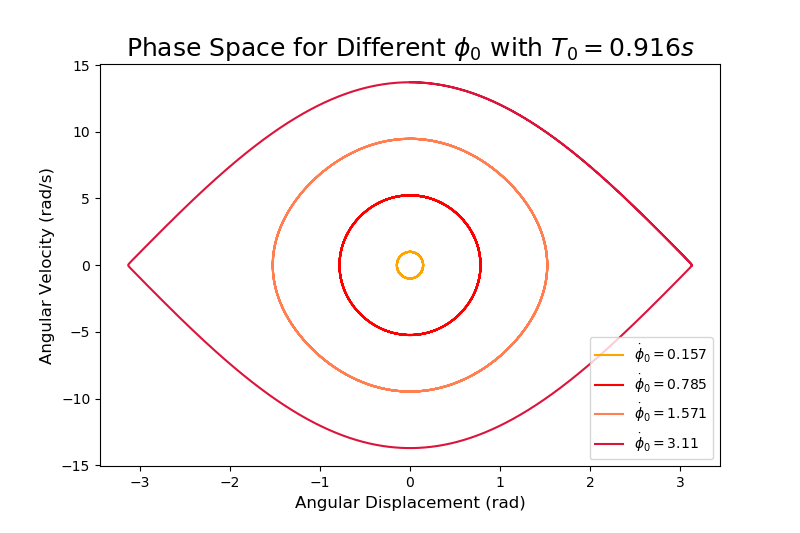
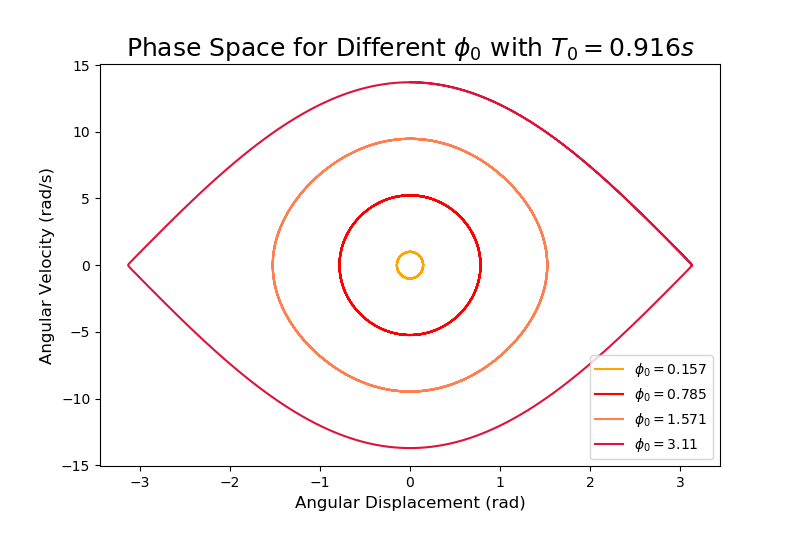
more butterflies, started bifurcation

Changed region(s): [[0.75, 0.6304, 0.9062, 0.8405]]

diff --git a/Pendulum Code/Section3-2.py b/Pendulum Code/Section3-2.py
@@ -61,7 +61,8 @@ plotargs['title'] = ''
 plotargs['titlesize'] = 18
 plotargs['labelsize'] = 12
 
-fig = plt.figure()
+fig1, axs1 = plt.subplots()
+
 
 parameters['kappa'] = 2*parameters['omega_0']*0.1
 parameters['omega_d'] = parameters['omega_0']*0.56
@@ -78,12 +79,35 @@ parameters['omega_d'] = parameters['omega_0']*0.56
 parameters['eta'] = 71.16
 y3 = RK4(pendulum, y_0, times, parameters)
 
-ax1 = fig.add_subplot(111)
-ax1.plot(times, y1[:,0], '-', color='crimson')
-ax1.plot(times, y2[:,0], '-', color='royalblue')
-ax1.plot(times, y3[:,0], '-', color='salmon')
+etas = [71.17, 71.18, 71.16]
+
+axs1.plot(times, y1[:,0], '-', color='crimson', label=r'$\eta = $ {}'.format(etas[0]))
+axs1.plot(times, y2[:,0], '-', color='royalblue', label=r'$\eta = $ {}'.format(etas[1]))
+axs1.plot(times, y3[:,0], '-', color='salmon', label=r'$\eta = $ {}'.format(etas[2]))
+
+axs1.set_xlabel('Time (s)')
+axs1.set_ylabel('Angular Displacement (rad)')
+axs1.set_title(r'Butterfly Effects for Driving Force $\eta$')
+axs1.legend(loc=3)
+fig1.set_size_inches(20, 6.67)
+fig1.savefig('butterflyeffect.png', dpi=100)
+plt.show()
 
 
+
+fig2, axs2 = plt.subplots()
+
+axs2.plot(y1[:,0], y1[:,1], '-', color='crimson', label=r'$\eta = $ {}'.format(etas[0]))
+axs2.plot(y2[:,0], y2[:,1], '-', color='royalblue', label=r'$\eta = $ {}'.format(etas[1]))
+axs2.plot(y3[:,0], y3[:,1], '-', color='salmon', label=r'$\eta = $ {}'.format(etas[2]))
+
+axs2.set_xlabel('Angular Displacement (rad)')
+axs2.set_ylabel('Angular Velocity (rad/s)')
+axs2.set_title(r'Butterfly Effects for Driving Force $\eta$')
+axs2.legend(loc=3)
+fig2.set_size_inches(20, 6.67)
+fig2.savefig('butterflyphasespace.png', dpi=100)
+plt.show()
 
 
 

diff --git a/Pendulum Code/Section2.py b/Pendulum Code/Section2.py
@@ -124,7 +124,7 @@ for i in range(len(initialvals)):
     y_0 = np.array([0, initialvels[i]])
     plotargs['color'] = colors[i]
     phi = str(round(initialvals[i], 3))
-    plotargs['graph label'] = r'$\dot\phi_0 = $' + phi
+    plotargs['graph label'] = r'$\phi_0 = $' + phi
     yvals = RK4(pendulum, y_0, times, parameters)
     
     pp.phasespace(times, yvals, plotargs)
@@ -136,8 +136,8 @@ plt.show()
     
 
 
-comparisons = 100
-initialvals = np.linspace(np.pi/150, np.pi-0.1, comparisons)
+comparisons = 150
+initialvals = np.linspace(np.pi/150, np.pi-0.01, comparisons)
 
 periods = []
 periodsarr = np.array(periods)
@@ -158,8 +158,8 @@ for t in periods:
     err = t - T
     errors.append(err)
 
-yticvals = [T, 1.4*T, 1.8*T, 2.2*T, 2.6*T, 3*T,]
-ytic = [r'$T_0$', r'$1.4T_0$', r'$1.8T_0$', r'$2.2T_0$', r'$2.6T_0$', r'$3T_0$']
+yticvals = [T, 1.6*T, 2.2*T, 2.8*T, 3.4*T, 4*T]
+ytic = [r'$T_0$', r'$1.6T_0$', r'$2.2T_0$', r'$2.8T_0$', r'$3.4T_0$', r'$4T_0$']
 
 
 plt.plot(initialvals, periods, '-', color = 'crimson')

diff --git a/Pendulum Code/bifurcation.py b/Pendulum Code/bifurcation.py
@@ -1,0 +1,37 @@
+#!/usr/bin/env python3
+# -*- coding: utf-8 -*-
+"""
+Created on Sat Nov 30 12:22:08 2019
+
+@author: lucasbaralt
+"""
+
+import numpy as np
+from pendulumeqs import Parameters, pendulumTorque
+import matplotlib.pyplot as plt
+from rungekutta4 import RK4
+import pendulumplot as pp
+
+parameters = Parameters
+
+g = 9.8
+m_1 = 0.1
+m_2 = 0.2
+L = 0.2
+r = 0.025
+
+L_cm = ((L/2)*(m_1) + (L+r)*m_2)/(m_1+m_2)
+
+
+I = (1/3)*m_1*L*L + (L+r)**2*m_2
+
+
+
+
+parameters['M'] = m_1 + m_2
+parameters['omega_0'] = np.sqrt((parameters['M']*g*L_cm)/I)
+parameters['kappa'] = 2*parameters['omega_0']*0.1
+parameters['omega_d'] = 
+
+
+

diff --git a/Pendulum Code/section3-1.py b/Pendulum Code/section3-1.py
@@ -96,8 +96,7 @@ fig.tight_layout(pad=2.5)
 fig.legend(loc=2)
 
 fig.suptitle(r'Convergent Limit Cycle for Different $\phi_0$')
-
-plt.rcParams["figure.figsize"] = (20, 6.67) 
+fig.set_size_inches(20, 6.67)
 
 
 fig.savefig('convergent_limit_cycle.png', dpi=100)
